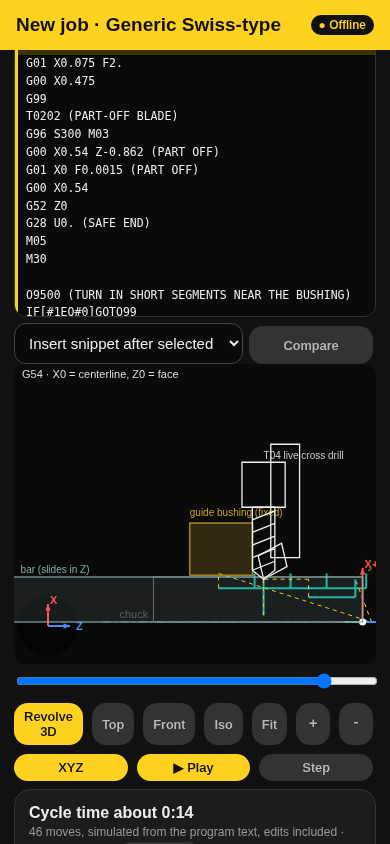
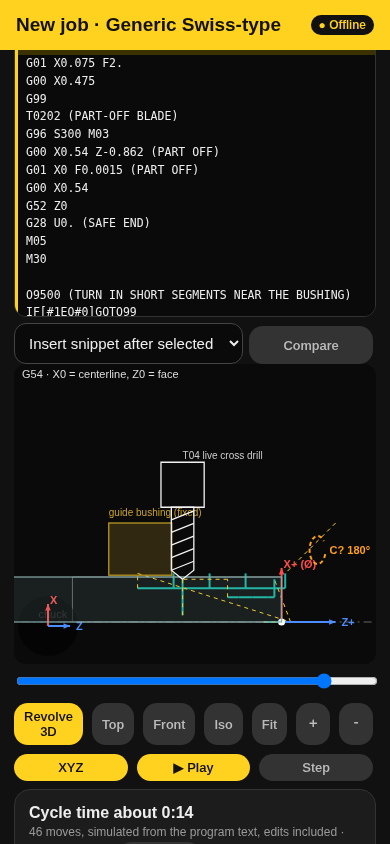
Round 12: hide generic lathe tool on Swiss, Tsugami sub spindle on (red), shots 36/37

diff --git a/index.html b/index.html
@@ -213,7 +213,7 @@ function draw(){ctx.clearRect(0,0,cv.width,cv.height);const s=J.stock,M=J.M||J.m
  if(L&&view.rev){ctx.strokeStyle='rgba(20,184,166,.22)';M.slice(0,n).forEach(m=>{if(!m.r)for(let k=1;k<8;k++)ln(rot(m.a,k*Math.PI/4),rot(m.b,k*Math.PI/4))})}
  M.slice(0,n).forEach(m=>{ctx.setLineDash(m.r?[4,4]:[]);ctx.strokeStyle=m.out?'#ff4d4d':m.r?'#ffd21f':'#14b8a6';ctx.lineWidth=m.r?1:2;ln(R3(m.a),R3(m.b))});
  ctx.setLineDash([]);tool(n?M[n-1].b:(M[0]||{a:[0,0,1]}).a)}
-function tool(t){ctx.strokeStyle='#f2f2f2';ctx.lineWidth=1.3;
+function tool(t){if(J&&J.swiss)return;ctx.strokeStyle='#f2f2f2';ctx.lineWidth=1.3;
  if(J.lathe){const r=t[0],z=t[2],o=(dr,dz)=>[r+dr,0,z+dz];let sh;
   if(J.op=='ldrill'){const d=(J.p['Drill Ø']||{v:.25}).v/2;sh=[[o(0,0),o(d,.08),o(d,1.6),o(-d,1.6),o(-d,.08)]]}
   else if(J.op=='lgroove'){const w=J.p['Insert W'].v;sh=[[o(0,0),o(0,w),o(.45,w),o(.45,0)],[o(.45,-.05),o(.45,w+.05),o(.8,w+.05),o(.8,-.05)]]}
@@ -663,7 +663,7 @@ const _refresh10=refresh;refresh=function(){_refresh10();ctNote()};
 PRESETS['Swiss-type']=['Tsugami Swiss-type (generic)','Generic Swiss-type'];
 const SWS=[['Guide bushing','yes',1],['C-axis','yes',1],['Live tools','yes',1],['Live tool M-code','M51 (check manual)',1],['Sub spindle','no',1],['Bushing reach Z (in)','0.25']];
 const isSw=()=>/swiss/i.test((S.m[S.cur]||{}).type||'');
-const _pick11=pick;pick=function(n,g){if(g=='Swiss-type'){S.m.push(mk(n,'swiss-type lathe'));const m=S.m.at(-1);SWS.forEach(([k,v,c])=>m.s.push({k,v,st:c?'confirm':'suggested'}));m.opt={macroB:1};m.tools=JSON.parse(JSON.stringify((S.m[0]||{}).tools||[]));save();edit(S.m.length-1);return}_pick11(n,g)};
+const _pick11=pick;pick=function(n,g){if(g=='Swiss-type'){S.m.push(mk(n,'swiss-type lathe'));const m=S.m.at(-1);SWS.forEach(([k,v,c])=>m.s.push({k,v:(k=='Sub spindle'&&/Tsugami/.test(n))?'yes':v,st:c?'confirm':'suggested'}));m.opt={macroB:1};m.tools=JSON.parse(JSON.stringify((S.m[0]||{}).tools||[]));save();edit(S.m.length-1);return}_pick11(n,g)};
 OPN.swiss='Swiss: turn / flat / cross drill / part-off';REQ.swiss=['Bar Ø','Finish Ø','Length','Z0','Work offset'];
 Object.assign(UNIT,{'Flat depth':'in from OD','Flat L':'in along Z','Cross Ø':'in','Cross at Z':'in from face','Cross depth':'in (radial)','End drill depth':'in','Part-off W':'in blade','Segment':'in per bushing segment'});
 const _parseL11=parseL;parseL=function(t){const l=t.toLowerCase();if(!isSw())return _parseL11(t);const p={},G=(k,v,g)=>p[k]={v,g:!!g};
@@ -694,7 +694,7 @@ const _checks11=checks;checks=function(j){const c=_checks11(j);if(j.op!='swiss')
  const L=t.split('\n'),pi=L.map((l,i)=>/PART OFF/.test(l)?i:-1).filter(i=>i>=0).pop(),mi=L.findIndex(l=>/^M30/.test(l));c.push(['Part-off is the last cut before M30',pi!=null&&pi>=0&&pi<mi&&!L.slice(pi+1,mi).some(l=>/^G0?1\b/.test(l))]);return c};
 // sim: bushing, gang tools, C angle
 function swTool(l){const L=txt();const e=L.findIndex(x=>/^M30/.test(x));if(e>=0&&l>e)return 1;for(let i=l;i>=0;i--){const m=(L[i]||'').match(/^T(\d\d)/);if(m)return +m[1]}return 1}
-const _draw11=draw;draw=function(){if(!J||!J.swiss||!ctx)return _draw11();const M0=J.M||[],m0=M0[Math.min(view.n,M0.length)-1],sh=(!view.rev&&m0)?m0.b[2]:0;view.fz0+=sh;try{_draw11()}finally{view.fz0-=sh}if(!view.rev)view.fz0+=sh;try{sw2()}finally{if(!view.rev)view.fz0-=sh}};
+const _draw11=draw;draw=function(){if(!J||!J.swiss||!ctx)return _draw11();const M0=J.M||[],m0=M0[Math.min(view.n,M0.length)-1],sh=(!view.rev&&m0)?m0.b[2]+0.45:0;view.fz0+=sh;try{_draw11()}finally{view.fz0-=sh}if(!view.rev)view.fz0+=sh;try{sw2()}finally{if(!view.rev)view.fz0-=sh}};
 function sw2(){const M=J.M||[],n=Math.min(view.n,M.length),m=M[n-1],t=m?m.b:[J.lb.R+0.3,0,0.3],R=J.lb.R,flat=!view.rev;
  const lines=txt();let ca=0;if(m)for(let i=m.l;i>=0;i--){const q=(lines[i]||'').toUpperCase().match(/\bC(-?[\d.]+)/);if(q){ca=+q[1];break}}
  const zb=Math.min(0,t[2])-0.06;// bushing fixed in machine, just behind the cut; bar slides
@@ -703,7 +703,7 @@ function sw2(){const M=J.M||[],n=Math.min(view.n,M.length),m=M[n-1],t=m?m.b:[J.l
  ctx.setLineDash([]);ctx.lineWidth=1.2;
  if(flat){const L=(J.p.Length||{v:1}).v;box(0,R,-L-1.2,0,'#8aa','#8aa2');lab([R+0.02,0,-L-1.1],'bar (slides in Z)','#8aa');
   box(R+0.01,R+0.3,zb-0.35,zb,'#c9a227','#c9a22733');box(-R-0.3,-R-0.01,zb-0.35,zb,'#c9a227','#c9a22733');lab([R+0.34,0,zb-0.35],'guide bushing (fixed)','#c9a227');
-  const sub=sv('Sub spindle');if(sub&&!/^no|^none|^0/i.test(String(sub.v))){const tt0=swTool(m?m.l:0),zs=tt0==2?t[2]+0.03:Math.max(0.6,t[2]+0.6);box(-R-0.2,R+0.2,zs,zs+0.45,'#7fb3ff','#7fb3ff22');lab([R+0.24,0,zs],'sub spindle'+(tt0==2?' (pick-off)':''),'#7fb3ff')}}
+  const sub=sv('Sub spindle');if(sub&&!/^no|^none|^0/i.test(String(sub.v))){const tt0=swTool(m?m.l:0),zs=tt0==2?0.02:Math.max(0.6,t[2]+0.6);box(-R-0.2,R+0.2,zs,zs+0.45,'#7fb3ff','#7fb3ff22');lab([R+0.24,0,zs],'sub spindle'+(tt0==2?' (pick-off)':''),'#7fb3ff')}}
  const tt=swTool(m?m.l:0);ctx.strokeStyle='#f2f2f2';ctx.lineWidth=1.3;const o=(dr,dz)=>[t[0]+dr,0,t[2]+dz];
  const flutes=(x0,x1,d,alongZ)=>{for(let k=x0;k<x1-0.04;k+=0.07)ln(alongZ?o(-d,k):o(k,-d),alongZ?o(d,k+0.05):o(k+0.05,d))};
  if(tt==1){poly([o(0,0),o(0.07,-0.05),o(0.07,0.05)]);poly([o(0.07,-0.07),o(0.07,0.07),o(0.7,0.07),o(0.7,-0.07)]);lab(o(0.72,0),'T01 turn','#ccc')}

diff --git a/test/shots7.html b/test/shots7.html
@@ -1,11 +1,11 @@
-<!doctype html><body style="margin:0;background:#111"><iframe id="f" src="../index.html?v=13" style="width:390px;height:1500px;border:0"></iframe><script>
+<!doctype html><body style="margin:0;background:#111"><iframe id="f" src="../index.html?v=15" style="width:390px;height:1500px;border:0"></iframe><script>
 let first=1;const job=new URLSearchParams(location.search);
 f.onload=()=>{const w=f.contentWindow;if(first){first=0;w.localStorage.clear();w.location.reload();return}
  setTimeout(()=>{const E=x=>w.eval(x),k=job.get('k');w.confirm=()=>true;
   if(k=='mill'){E('S.cur=0');w.tab('new');w.ex('G54 T2 3 x 4 grid 0.75 spacing start x0.5 y0.5 z0 0 0.4 deep drill');w.scrub(Math.floor(E('J.M.length')*.4))}
   if(k=='import'){E('S.cur=0');w.tab('new');w.importToEditor('%\nO0123 (IMPORTED POCKET)\nG17 G20 G90 G54\nG00 X0 Y0 Z1.\nG01 Z-0.2 F10.\nG01 X2.\nG03 X2. Y1. I0 J0.5\nG01 X0\nG02 X0 Y0 I0 J-0.5\nG00 Z1.\nM30\n%');w.scrub(E('J.M.length'))}
-  if(/^sw/.test(k)){w.pick('Generic Swiss-type','Swiss-type');E('S.cur=S.m.length-1');w.tab('new');w.ex('G54 swiss turn 0.5 bar to 0.375 dia 0.8 long z0 0 flat 0.05 deep 0.3 long cross drill 0.125 at z-0.55 0.15 deep center drill 0.1 deep part off 0.062');
-    const want={swturn:1,swmill:3,swdrill:4}[k],M=E('J.M');let idx=M.findIndex(m=>w.swTool(m.l)==want);const last=M.map((m,i)=>w.swTool(m.l)==want?i:-1).filter(i=>i>=0);idx=last[Math.floor(last.length*0.6)];w.scrub(idx+1)}
+  if(/^sw/.test(k)){w.pick(k=='swpart'?'Tsugami Swiss-type (generic)':'Generic Swiss-type','Swiss-type');E('S.cur=S.m.length-1');w.tab('new');w.ex('G54 swiss turn 0.5 bar to 0.375 dia 0.8 long z0 0 flat 0.05 deep 0.3 long cross drill 0.125 at z-0.55 0.15 deep center drill 0.1 deep part off 0.062');
+    const want={swpart:2,swturn:1,swmill:3,swdrill:4}[k],M=E('J.M');let idx=M.findIndex(m=>w.swTool(m.l)==want);const last=M.map((m,i)=>w.swTool(m.l)==want?i:-1).filter(i=>i>=0);idx=last[Math.floor(last.length*0.6)];w.scrub(idx+1)}
   if(k=='lathe'){E('S.cur=2');w.tab('new');w.ex('G54 T1 turn 2.0 bar to 1.5 dia 3 long z0 0 chamfer 0.03');w.scrub(Math.floor(E('J.M.length')*.5))}
   if(k=='hmc'){w.pick('Generic HMC 4-axis','Horizontal mills');E('S.cur=S.m.length-1');w.tab('new');w.ex('G54 T2 index 4 faces hole x0.3 y0.2 z0 1.0 0.4 deep drill');w.vw('iso');w.scrub(E('J.M.length'))}
   if(k=='hmcmid'){w.pick('Generic HMC 4-axis','Horizontal mills');E('S.cur=S.m.length-1');w.tab('new');w.ex('G54 T2 index 4 faces hole x0.3 y0.2 z0 1.0 0.4 deep drill');w.vw('iso');w.scrub(Math.floor(E('J.M.length')*.42))}

diff --git a/test/ui-test5.html b/test/ui-test5.html
@@ -1,4 +1,4 @@
-<!doctype html><body><pre id="o"></pre><iframe id="f" src="../index.html?v=13" style="width:390px;height:844px"></iframe><script>
+<!doctype html><body><pre id="o"></pre><iframe id="f" src="../index.html?v=15" style="width:390px;height:844px"></iframe><script>
 const out=[],log=(n,ok)=>out.push((ok?'PASS ':'FAIL ')+n);let first=1;
 f.onload=()=>{const w=f.contentWindow;if(first){first=0;w.localStorage.clear();w.location.reload();return}
  setTimeout(async()=>{const d=w.document,E=x=>w.eval(x),cl=()=>d.querySelector('#cl').textContent;w.confirm=()=>true;try{

diff --git a/test/ui-test6.html b/test/ui-test6.html
@@ -1,4 +1,4 @@
-<!doctype html><body><pre id="o"></pre><iframe id="f" src="../index.html?v=13" style="width:390px;height:844px"></iframe><script>
+<!doctype html><body><pre id="o"></pre><iframe id="f" src="../index.html?v=15" style="width:390px;height:844px"></iframe><script>
 const out=[],log=(n,ok)=>out.push((ok?'PASS ':'FAIL ')+n);let first=1;
 f.onload=()=>{const w=f.contentWindow;if(first){first=0;w.localStorage.clear();w.location.reload();return}
  setTimeout(async()=>{const d=w.document,E=x=>w.eval(x);w.confirm=()=>true;try{

diff --git a/test/ui-test4.html b/test/ui-test4.html
@@ -1,4 +1,4 @@
-<!doctype html><body><pre id="o"></pre><iframe id="f" src="../index.html?v=13" style="width:390px;height:844px"></iframe><script>
+<!doctype html><body><pre id="o"></pre><iframe id="f" src="../index.html?v=15" style="width:390px;height:844px"></iframe><script>
 const out=[],log=(n,ok)=>out.push((ok?'PASS ':'FAIL ')+n);let first=1;
 f.onload=()=>{const w=f.contentWindow;if(first){first=0;w.localStorage.clear();w.location.reload();return}
  setTimeout(()=>{const d=w.document,E=x=>w.eval(x);w.confirm=()=>true;try{

diff --git a/test/ui-test8.html b/test/ui-test8.html
@@ -1,4 +1,4 @@
-<!doctype html><body><pre id="o"></pre><iframe id="f" src="../index.html?v=13" style="width:390px;height:844px"></iframe><script>
+<!doctype html><body><pre id="o"></pre><iframe id="f" src="../index.html?v=15" style="width:390px;height:844px"></iframe><script>
 const out=[],log=(n,ok)=>out.push((ok?'PASS ':'FAIL ')+n);let first=1;
 f.onload=()=>{const w=f.contentWindow;if(first){first=0;w.localStorage.clear();w.location.reload();return}
  setTimeout(()=>{const d=w.document,E=x=>w.eval(x);w.confirm=()=>true;try{

diff --git a/test/ui-test.html b/test/ui-test.html
@@ -1,4 +1,4 @@
-<!doctype html><body style="background:#fff"><pre id="o"></pre><iframe id="f" src="../index.html?v=13" style="width:390px;height:844px"></iframe><script>
+<!doctype html><body style="background:#fff"><pre id="o"></pre><iframe id="f" src="../index.html?v=15" style="width:390px;height:844px"></iframe><script>
 const out=[],log=(n,ok)=>out.push((ok?'PASS ':'FAIL ')+n);
 f.onload=()=>{const w=f.contentWindow,d=w.document;try{
  if(!window.r){window.r=1;w.localStorage.clear();w.location.reload();return}}catch(e){}

diff --git a/test/ui-test10.html b/test/ui-test10.html
@@ -1,4 +1,4 @@
-<!doctype html><body><pre id="o"></pre><iframe id="f" src="../index.html?v=13" style="width:390px;height:844px"></iframe><script>
+<!doctype html><body><pre id="o"></pre><iframe id="f" src="../index.html?v=15" style="width:390px;height:844px"></iframe><script>
 const out=[],log=(n,ok)=>out.push((ok?'PASS ':'FAIL ')+n);let first=1;
 f.onload=()=>{const w=f.contentWindow;if(first){first=0;w.localStorage.clear();w.location.reload();return}
  setTimeout(()=>{const d=w.document,E=x=>w.eval(x);try{

diff --git a/test/ui-test9.html b/test/ui-test9.html
@@ -1,4 +1,4 @@
-<!doctype html><body><pre id="o"></pre><iframe id="f" src="../index.html?v=13" style="width:390px;height:844px"></iframe><script>
+<!doctype html><body><pre id="o"></pre><iframe id="f" src="../index.html?v=15" style="width:390px;height:844px"></iframe><script>
 const out=[],log=(n,ok)=>out.push((ok?'PASS ':'FAIL ')+n);let first=1;
 f.onload=()=>{const w=f.contentWindow;if(first){first=0;w.localStorage.clear();w.location.reload();return}
  setTimeout(()=>{const d=w.document,E=x=>w.eval(x);try{

diff --git a/sw.js b/sw.js
@@ -1,2 +1,2 @@
-const C='mc-v7';self.addEventListener('install',e=>e.waitUntil(caches.open(C).then(c=>c.addAll(['./','index.html','manifest.json']))));
+const C='mc-v8';self.addEventListener('install',e=>e.waitUntil(caches.open(C).then(c=>c.addAll(['./','index.html','manifest.json']))));
 self.addEventListener('fetch',e=>e.respondWith(caches.match(e.request).then(r=>r||fetch(e.request))));
